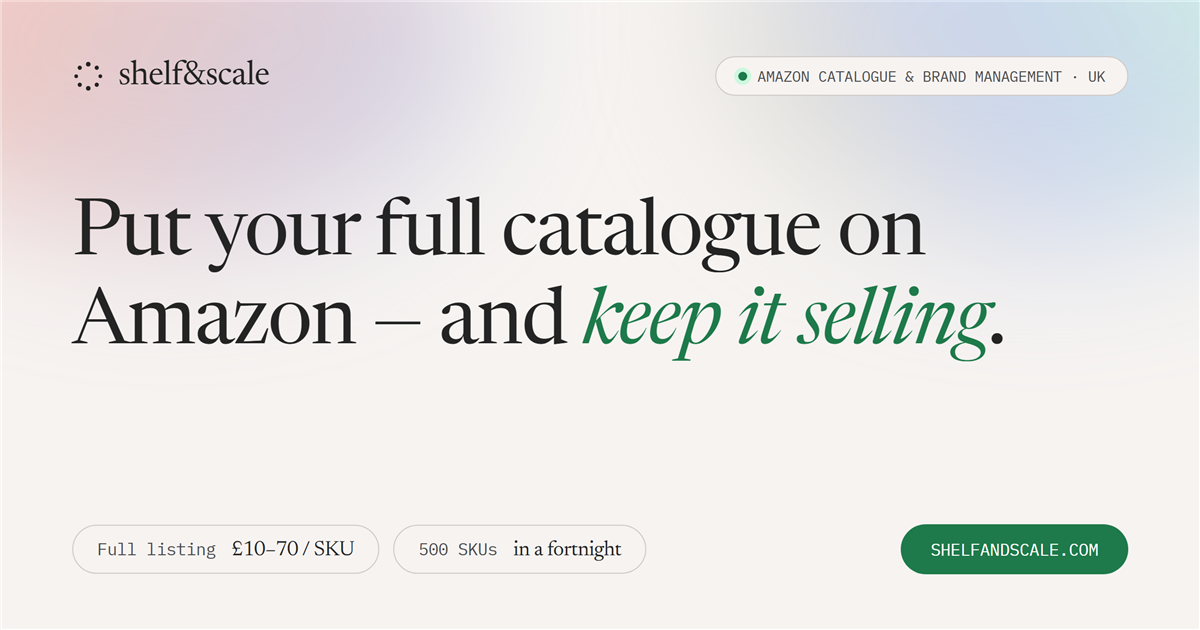
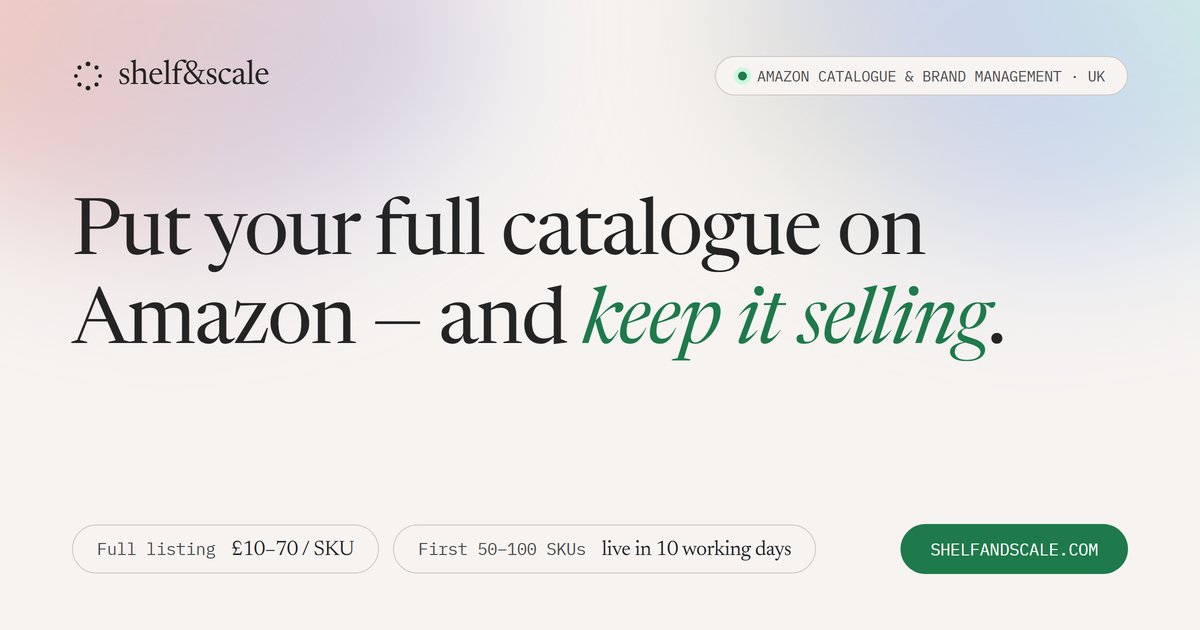
site: 25.08 decisions — first-wave timeline, Pilot Wave step, setup + Care price rows, no-discovery-call offer, privacy notice
Claude-Session: https://claude.ai/code/session_01PHY9f7moXur5pn1mTmrteM

diff --git a/index.html b/index.html
@@ -4,18 +4,18 @@
 <meta charset="UTF-8">
 <meta name="viewport" content="width=device-width, initial-scale=1.0">
 <title>Shelf &amp; Scale — Amazon Brand Management</title>
-<meta name="description" content="Put your full catalogue on Amazon and keep it selling. 500 SKUs live within a fortnight of sign-off — copy, images, filed product data — then storefront, A+ and advertising, run as one managed channel.">
+<meta name="description" content="Put your full catalogue on Amazon and keep it selling. Your first 50–100 SKUs live within 10 working days of clean data and sign-off — copy, images, filed product data — then storefront, A+ and advertising, run as one managed channel.">
 <meta property="og:type" content="website">
-<meta property="og:url" content="https://abc5550.github.io/shelfandscale-preview/">
+<meta property="og:url" content="https://shelfandscale.com/">
 <meta property="og:title" content="Shelf &amp; Scale — Amazon Catalogue &amp; Brand Management">
-<meta property="og:description" content="Put your full catalogue on Amazon and keep it selling. 500 SKUs live in a fortnight, at a published price — £10–70 per SKU.">
-<meta property="og:image" content="https://abc5550.github.io/shelfandscale-preview/og.png">
+<meta property="og:description" content="Put your full catalogue on Amazon and keep it selling. First 50–100 SKUs live in 10 working days, at a published price — £10–70 per SKU.">
+<meta property="og:image" content="https://shelfandscale.com/og.png">
 <meta property="og:image:width" content="1200">
 <meta property="og:image:height" content="630">
 <meta name="twitter:card" content="summary_large_image">
 <meta name="twitter:title" content="Shelf &amp; Scale — Amazon Catalogue &amp; Brand Management">
-<meta name="twitter:description" content="Put your full catalogue on Amazon and keep it selling. 500 SKUs live in a fortnight, at a published price.">
-<meta name="twitter:image" content="https://abc5550.github.io/shelfandscale-preview/og.png">
+<meta name="twitter:description" content="Put your full catalogue on Amazon and keep it selling. First 50–100 SKUs live in 10 working days, at a published price.">
+<meta name="twitter:image" content="https://shelfandscale.com/og.png">
 <link rel="preconnect" href="https://fonts.googleapis.com">
 <link rel="preconnect" href="https://fonts.gstatic.com" crossorigin>
 <link href="https://fonts.googleapis.com/css2?family=Newsreader:ital,opsz,wght@0,6..72,400;1,6..72,400&family=IBM+Plex+Mono:wght@400;500&display=swap" rel="stylesheet">
@@ -230,6 +230,7 @@
 
   /* ---------- Steps ---------- */
   .steps { display: grid; grid-template-columns: repeat(3, 1fr); border-top: 1px solid var(--ash); }
+  .steps-4 { grid-template-columns: repeat(4, 1fr); }
   .step { padding: 48px 32px 8px 32px; border-left: 1px solid var(--ash); }
   .step:first-child { border-left: none; padding-left: 0; }
   .step .n { font-size: 13px; color: var(--smoke); text-transform: uppercase; display: block; margin-bottom: 20px; }
@@ -292,7 +293,7 @@
     .ba-grid, .ladder { grid-template-columns: 1fr; }
     .rung { border-left: none; }
     .rung:nth-child(2) { border-top: 1px solid var(--ash); }
-    .steps { grid-template-columns: 1fr; }
+    .steps, .steps-4 { grid-template-columns: 1fr; }
     .step { border-left: none; padding-left: 0; border-top: 1px solid var(--ash); }
     .step:first-child { border-top: none; }
     .announce .close { right: 16px; }
@@ -346,7 +347,7 @@
 <!-- Announcement -->
 <div class="announce" id="announce">
   <div class="wrap">
-    <span>Reply within 48 hours — and 5 of your SKUs rebuilt free, hero image included</span>
+    <span>Reply within 48 hours — and 5 production-standard listing previews rebuilt free, hero image included. No discovery call required.</span>
     <a class="pill" href="#contact">Send your catalogue</a>
     <button class="close" aria-label="Close" onclick="document.getElementById('announce').style.display='none'">×</button>
   </div>
@@ -383,7 +384,7 @@
   <div class="wrap">
     <div class="hero-tag reveal"><i></i>Amazon catalogue &amp; brand management · United Kingdom</div>
     <h1 class="reveal">Put your full catalogue on Amazon —<br>and <em>keep it selling</em>.</h1>
-    <p class="reveal">500 SKUs live within a fortnight of sign-off: copy, images and filed product data — on your own account, so you keep everything. Then the storefront, A+ content and advertising, run as one managed channel.</p>
+    <p class="reveal">Your first 50–100 SKUs live within 10 working days of clean data and sign-off — copy, images and filed product data, on your own account, so you keep everything. The full catalogue follows in agreed waves; then the storefront, A+ content and advertising, run as one managed channel.</p>
     <div class="hero-qual reveal">For established brands and distributors with 100–1,000+ SKUs. Not built for single-product launches.</div>
     <div class="hero-cta reveal">
       <a class="btn btn-accent" href="#contact">Send your catalogue</a>
@@ -578,7 +579,7 @@
   <div class="wrap">
     <span class="kicker reveal">Beyond listings</span>
     <h2 class="section-title reveal">The listing is the door, not the room.</h2>
-    <p class="section-sub reveal">Most clients arrive with a catalogue problem and end up owning a managed brand channel. It is built in this order, because brand content, advertising and management only work when the pages underneath them are ready.</p>
+    <p class="section-sub reveal">Most clients arrive with a catalogue problem and end up owning a managed brand channel. It is built in this order, because brand content, advertising and management only work when the pages underneath them are ready.<br><br><b style="font-weight:500;color:var(--off-black)">Listings put the range live. Catalogue Care and Channel Growth keep it selling.</b></p>
     <div class="ladder reveal">
       <div class="rung entry">
         <div class="n">Stage 01 <span class="badge">The entry</span></div>
@@ -634,19 +635,22 @@
     <p class="section-sub reveal">Trade · GBP ex VAT · per SKU at one hundred SKUs and above · E&amp;OE</p>
 
     <div class="price-rows reveal">
+      <div class="price-row"><span class="code">SS-00</span><span class="name">Catalogue setup</span><span class="desc">One-off, fixed after the free sample: mapping your source data to Amazon's category schema and variation structure. One standard product type included; additional catalogue structures and legacy remediation quoted after the sample. Once the structure exists, every SKU using it stays at the published rate.</span><span class="cost">fixed after<br>the sample<small>one-off</small></span></div>
       <div class="price-row"><span class="code">SS-01</span><span class="name">Listing copy</span><span class="desc">Title, bullets, description, backend keywords, prohibited-claims audit.</span><span class="cost">£10–15<small>/ SKU</small></span></div>
       <div class="price-row"><span class="code">SS-02</span><span class="name">Listing copy + hero image</span><span class="desc">Everything above, plus the main image that decides whether anyone clicks.</span><span class="cost">£25–35<small>/ SKU</small></span></div>
       <div class="price-row"><span class="code">SS-03</span><span class="name">Full listing</span><span class="desc">Copy plus five to seven images: hero, infographics, how-to-use, lifestyle.</span><span class="cost">£50–70<small>/ SKU</small></span></div>
       <div class="price-row"><span class="code">SS-04</span><span class="name">A+ content</span><span class="desc">Added to a selected set of hero SKUs, not across the whole range.</span><span class="cost">£100–150<small>/ SKU</small></span></div>
       <div class="price-row"><span class="code">SS-05</span><span class="name">Channel retainer</span><span class="desc">Once the catalogue is live: listing maintenance, reporting, and advertising within an agreed ad-budget band. Scope fixed in writing before it starts.</span><span class="cost">from £1,500<small>/ month</small></span></div>
+      <div class="price-row"><span class="code">SS-06</span><span class="name">Catalogue Care</span><span class="desc">Keeping a live range live: suppressions cleared, new SKUs added, cases handled, content refreshed, monthly report. For catalogues that are built and need looking after, without the advertising.</span><span class="cost">priced after<br>the pilot<small>/ month</small></span></div>
     </div>
+    <p class="price-meta reveal" style="margin-top:16px;color:var(--off-black)">Estimated total = catalogue setup + SKU count × package price.</p>
     <p class="price-meta reveal">Where a price lands inside its range depends on source-data quality, category complexity and image requirements — and the quote is fixed before work starts. Smaller runs are quoted individually; larger catalogues are priced on volume. One round of revisions is included. Prices exclude VAT.</p>
 
     <!-- Calculator -->
     <div class="calc reveal">
       <div>
         <h3>Do the maths — live</h3>
-        <div class="hint">Drag the slider, pick a package. The number updates.</div>
+        <div class="hint">Drag the slider, pick a package. The number updates. Add catalogue setup, fixed after the sample.</div>
         <label class="lbl" for="skuRange">SKUs in the catalogue <output id="skuOut">200</output></label>
         <input type="range" id="skuRange" min="100" max="1000" step="10" value="200">
         <div class="pkg">
@@ -657,7 +661,7 @@
       </div>
       <div class="calc-out">
         <div class="sum"><span id="calcSum">£10,000–14,000</span><small>Total, ex VAT</small></div>
-        <div class="days" id="calcDays">≈ 10 working days to live after sign-off — at 500 SKUs a fortnight</div>
+        <div class="days" id="calcDays">First wave (50–100 SKUs): live within 10 working days of sign-off · then further waves of 50–100, schedule fixed after the first wave</div>
       </div>
     </div>
 
@@ -668,7 +672,7 @@
         <tbody>
           <tr><td class="opt">ChatGPT</td><td>—</td><td>Search-volume data, a filed flat-file, a resolved 5665, or seven images to spec.</td></tr>
           <tr><td class="opt">Offshore data entry</td><td>£2–4</td><td>Keyword data, images, and copy anyone would want on their brand.</td></tr>
-          <tr><td class="opt">Agencies</td><td>£40–250</td><td>A price that scales to 500 SKUs — or a timescale that does.</td></tr>
+          <tr><td class="opt">Agencies</td><td>£40–250</td><td>A price that scales to a full range — or a timescale that does.</td></tr>
           <tr class="us"><td class="opt">Shelf &amp; Scale</td><td>£10–70</td><td>Nothing on this list. Packages run from copy-only to full listings — filed and live on your account.</td></tr>
         </tbody>
       </table>
@@ -681,8 +685,8 @@
 <section style="padding-top:0">
   <div class="wrap">
     <span class="kicker reveal">How it works</span>
-    <h2 class="section-title reveal">Three steps, and the first two cost you nothing.</h2>
-    <div class="steps" style="margin-top:48px">
+    <h2 class="section-title reveal">Four steps, and the first two cost you nothing.</h2>
+    <div class="steps steps-4" style="margin-top:48px">
       <div class="step reveal">
         <span class="n">Step 1 · <b>£0.00</b></span>
         <h3>Send the catalogue</h3>
@@ -691,12 +695,17 @@
       <div class="step reveal">
         <span class="n">Step 2 · <b>£0.00</b></span>
         <h3>48 hours later: a fixed quote — and 5 of your SKUs rebuilt, free</h3>
-        <p>Scope and price in writing, plus five of your products rebuilt — copy, keywords and a hero image each — ready to file. You judge finished work, not a proposal.</p>
+        <p>Scope and price in writing, plus five of your products rebuilt as production-standard previews — copy, keywords and a hero image each, ready to file where your data is complete. You judge finished work, not a proposal. No discovery call required.</p>
       </div>
       <div class="step reveal">
-        <span class="n">Step 3 · <b>the quote, fixed</b></span>
-        <h3>We build and file</h3>
-        <p>You approve the sample, we produce the rest, upload to your account and clear the errors. Nothing goes live without your explicit sign-off — and every wave ships with 30 days of live numbers: sessions, conversion, keyword rank.</p>
+        <span class="n">Step 3 · <b>pilot wave · deposit</b></span>
+        <h3>25–50 SKUs from one product family</h3>
+        <p>The first paid wave: one product family, built, filed and live on your account within 10 working days of clean data and sign-off. One round of revisions. It counts toward the rollout, and it is where the schedule for the rest gets fixed — on real numbers, not a proposal.</p>
+      </div>
+      <div class="step reveal">
+        <span class="n">Step 4 · <b>the quote, fixed</b></span>
+        <h3>Rollout in waves — then the channel</h3>
+        <p>Waves of 50–100 SKUs, each signed off before the next starts. Nothing goes live without your explicit sign-off — and every wave ships with 30 days of live numbers: sessions, conversion, keyword rank. Then Catalogue Care keeps the range live, and Channel Growth keeps it selling.</p>
       </div>
     </div>
   </div>
@@ -723,7 +732,7 @@
       </details>
       <details>
         <summary>How long does a 500-SKU catalogue actually take?<span class="chev">↓</span></summary>
-        <div class="a">Around a fortnight — and the clock starts when your data template and assets are approved, not when the contract is signed. Large catalogues go live in waves, so the early batches are producing metrics while the later ones are still in production — and those metrics feed back into the build.</div>
+        <div class="a">Your first 50–100 SKUs are live within 10 working days of clean data and sign-off — and the clock starts when your data template and assets are approved, not when the contract is signed. The rest follows in agreed waves of 50–100, with the schedule fixed after the first wave, on what the data and the category actually required. Early waves are producing metrics while later ones are still in production — and those metrics feed back into the build.</div>
       </details>
       <details>
         <summary>Do you need access to our Seller Central?<span class="chev">↓</span></summary>
@@ -768,12 +777,12 @@
       <div class="wash-3"></div>
       <span class="kicker">Next step</span>
       <h2>Send us your catalogue. We will tell you what it costs.</h2>
-      <p>No call required to get a number. If the price does not work for you, you will have lost one email and learned what the market rate should be.</p>
+      <p>No discovery call required to receive the sample or the number. If the price does not work for you, you will have lost one email and learned what the market rate should be.</p>
       <div class="hero-cta">
         <a class="btn btn-accent" href="mailto:kevin@shelfandscale.com">kevin@shelfandscale.com</a>
         <a class="btn btn-ghost" href="#pricing">Back to the price list</a>
       </div>
-      <div class="fine">Reply in 48 hrs · 5-SKU sample free, hero images included · no Seller Central access needed for the sample<br>Recruiting for an Amazon manager at the moment? There is a version of this for the months before they start.</div>
+      <div class="fine">Reply in 48 hrs · 5 production-standard listing previews free, hero images included · no Seller Central access needed for the sample<br>Recruiting for an Amazon manager at the moment? There is a version of this for the months before they start.</div>
     </div>
   </div>
 </section>
@@ -804,6 +813,7 @@
       <div class="foot-h">Contact &amp; privacy</div>
       <a href="mailto:kevin@shelfandscale.com">kevin@shelfandscale.com</a>
       <p>No cookies. No tracking. If you email us, we keep the thread only to reply to you, share it with no one, and delete it on request.</p>
+      <a href="privacy.html">Privacy notice</a>
     </div>
   </div>
 </footer>
@@ -831,7 +841,8 @@
     const pkg = document.querySelector('input[name=pkg]:checked').value.split(',').map(x => parseInt(x, 10));
     skuOut.textContent = n;
     sum.textContent = '£' + (n * pkg[0]).toLocaleString('en-GB') + '–' + (n * pkg[1]).toLocaleString('en-GB');
-    days.textContent = '≈ ' + Math.max(10, Math.ceil(n / 50)) + ' working days to live after sign-off — at 500 SKUs a fortnight';
+    const waves = Math.max(0, Math.ceil(n / 100) - 1);
+    days.textContent = 'First wave (50–100 SKUs): live within 10 working days of sign-off' + (waves > 0 ? ' · then ' + waves + ' further wave' + (waves === 1 ? '' : 's') + ' of 50–100, schedule fixed after the first wave' : '');
   }
   range.addEventListener('input', recalc);
   document.querySelectorAll('input[name=pkg]').forEach(r => r.addEventListener('change', recalc));

diff --git a/privacy.html b/privacy.html
@@ -1,0 +1,170 @@
+<!DOCTYPE html>
+<html lang="en">
+<head>
+<meta charset="UTF-8">
+<meta name="viewport" content="width=device-width, initial-scale=1.0">
+<title>Privacy notice — Shelf &amp; Scale</title>
+<meta name="description" content="How Shelf &amp; Scale handles the business contact details it uses to write to brands, and what this website does and does not collect.">
+<meta name="robots" content="noindex">
+<link rel="preconnect" href="https://fonts.googleapis.com">
+<link rel="preconnect" href="https://fonts.gstatic.com" crossorigin>
+<link href="https://fonts.googleapis.com/css2?family=Newsreader:ital,opsz,wght@0,6..72,400;1,6..72,400&family=IBM+Plex+Mono:wght@400;500&display=swap" rel="stylesheet">
+<style>
+  :root {
+    --parchment: #f6f3f1;
+    --mint: #a7fccd;
+    --coral: #ff9473;
+    --off-black: #242424;
+    --graphite: #4e4d4d;
+    --smoke: #797776;
+    --ash: #cecac8;
+    --accent: #1e7a4a;
+    --accent-deep: #16603a;
+    --accent-text: #1d6f45;
+    --mono: 'IBM Plex Mono', ui-monospace, SFMono-Regular, Menlo, Consolas, monospace;
+    --serif: 'Newsreader', ui-serif, Georgia, 'Times New Roman', serif;
+    --page-max: 1432px;
+    --btn-radius: 100px;
+  }
+  * { margin: 0; padding: 0; box-sizing: border-box; }
+  body { background: var(--parchment); color: var(--off-black); font-family: var(--mono); font-size: 16px; line-height: 1.35; letter-spacing: -0.025em; -webkit-font-smoothing: antialiased; }
+  h1, h2, h3 { font-family: var(--serif); font-weight: 400; letter-spacing: -0.02em; line-height: 1.2; }
+  a { color: inherit; text-decoration: none; }
+  ::selection { background: var(--mint); }
+  :focus-visible { outline: 2px solid var(--accent); outline-offset: 3px; border-radius: 4px; }
+  .wrap { max-width: var(--page-max); margin: 0 auto; padding: 0 40px; }
+
+  nav { position: sticky; top: 0; z-index: 50; background: color-mix(in srgb, var(--parchment) 90%, transparent); backdrop-filter: blur(12px); }
+  nav .wrap { display: flex; align-items: center; justify-content: space-between; height: 80px; gap: 32px; }
+  .logo { display: inline-flex; align-items: center; gap: 10px; font-family: var(--serif); font-size: 24px; }
+  .logo svg { width: 26px; height: 26px; }
+  .nav-links { display: flex; gap: 28px; font-size: 14px; text-transform: uppercase; }
+  .nav-links a:hover { color: var(--smoke); }
+  .btn { display: inline-flex; align-items: center; gap: 10px; font-family: var(--mono); font-size: 13px; text-transform: uppercase; letter-spacing: -0.02em; border-radius: var(--btn-radius); padding: 10px 22px; border: 1px solid transparent; white-space: nowrap; transition: transform .2s, background .2s; }
+  .btn:hover { transform: translateY(-1px); }
+  .btn-accent { background: var(--accent); color: #fff; }
+  .btn-accent:hover { background: var(--accent-deep); }
+  .btn-accent::after { content: '▸'; font-size: 12px; }
+
+  main { padding: 72px 0 104px; }
+  .kicker { display: inline-block; font-size: 13px; text-transform: uppercase; color: var(--smoke); border: 1px solid var(--ash); border-radius: 9999px; padding: 7px 18px; margin-bottom: 28px; }
+  h1 { font-size: clamp(32px, 3.4vw, 48px); max-width: 820px; margin-bottom: 20px; }
+  .lede { color: var(--graphite); max-width: 680px; font-size: 16px; line-height: 1.6; margin-bottom: 56px; }
+  .doc { max-width: 780px; }
+  .doc h2 { font-size: 26px; margin: 48px 0 14px; padding-top: 24px; border-top: 1px solid var(--ash); }
+  .doc p, .doc li { color: var(--graphite); font-size: 15px; line-height: 1.65; }
+  .doc p + p { margin-top: 12px; }
+  .doc ul { list-style: none; margin-top: 12px; }
+  .doc li { padding: 6px 0 6px 26px; position: relative; }
+  .doc li::before { content: '—'; position: absolute; left: 0; color: var(--accent-text); }
+  .doc b { font-weight: 500; color: var(--off-black); }
+  .doc .ph { background: color-mix(in srgb, var(--coral) 28%, transparent); padding: 1px 5px; border-radius: 4px; color: var(--off-black); }
+  .doc a { color: var(--accent-text); border-bottom: 1px solid color-mix(in srgb, var(--accent-text) 40%, transparent); }
+  .meta { font-size: 13px; color: var(--smoke); margin-top: 56px; line-height: 1.7; }
+
+  footer { border-top: 1px solid var(--ash); padding: 56px 0 64px; }
+  footer .wrap { display: grid; grid-template-columns: 1.4fr 1fr 1fr; gap: 48px; }
+  .foot-meta { font-size: 13px; color: var(--smoke); line-height: 1.9; margin-top: 16px; }
+  .foot-h { font-size: 12px; text-transform: uppercase; color: var(--smoke); margin-bottom: 16px; }
+  .foot-col a { display: block; font-size: 14px; padding: 5px 0; }
+  .foot-col a:hover { color: var(--smoke); }
+  .foot-col p { font-size: 13px; color: var(--smoke); line-height: 1.7; margin-top: 10px; }
+
+  @media (max-width: 1100px) { footer .wrap { grid-template-columns: 1fr; gap: 32px; } }
+  @media (max-width: 820px) { .wrap { padding: 0 24px; } main { padding: 48px 0 72px; } .nav-links { display: none; } }
+  @media (max-width: 640px) { nav .wrap { height: 62px; gap: 12px; } .logo { font-size: 20px; } }
+</style>
+</head>
+<body>
+
+<nav>
+  <div class="wrap">
+    <a class="logo" href="index.html">
+      <svg viewBox="0 0 26 26" aria-hidden="true">
+        <g fill="#242424">
+          <circle cx="13" cy="3.2" r="1.9"/><circle cx="19.9" cy="6.1" r="1.7"/><circle cx="22.8" cy="13" r="1.5"/>
+          <circle cx="19.9" cy="19.9" r="1.7"/><circle cx="13" cy="22.8" r="1.9"/><circle cx="6.1" cy="19.9" r="1.7"/>
+          <circle cx="3.2" cy="13" r="1.5"/><circle cx="6.1" cy="6.1" r="1.7"/>
+        </g>
+      </svg>
+      shelf&amp;scale</a>
+    <div class="nav-links">
+      <a href="index.html#gap">The catalogue gap</a>
+      <a href="index.html#beyond">Beyond listings</a>
+      <a href="index.html#pricing">Prices</a>
+      <a href="index.html#faq">FAQ</a>
+    </div>
+    <div class="nav-actions">
+      <a class="btn btn-accent" href="index.html#contact">Send your catalogue</a>
+    </div>
+  </div>
+</nav>
+
+<main>
+  <div class="wrap">
+    <span class="kicker">Privacy notice</span>
+    <h1>What we hold about you, where it came from, and how to make us stop.</h1>
+    <p class="lede">This notice covers two things: the business contact details we use to write to brands about their Amazon catalogues, and what this website does. It is written to be read, not filed. Last updated <span class="ph">[DATE]</span>.</p>
+
+    <div class="doc">
+      <h2>Who we are</h2>
+      <p><b>Shelf &amp; Scale</b> is a trading name of <span class="ph">[COMPANY NAME]</span>, a company registered in England and Wales under number <span class="ph">[COMPANY NUMBER]</span>, registered office <span class="ph">[REGISTERED ADDRESS]</span>. We are the data controller for the information described here. Contact for anything in this notice: <a href="mailto:privacy@shelfandscale.com">privacy@shelfandscale.com</a>.</p>
+
+      <h2>Business contact details we use for outreach</h2>
+      <p>We write to people at brands and distributors whose product ranges we think we can help put on Amazon. To do that we hold a small amount of information about individuals in their working role:</p>
+      <ul>
+        <li>name and job title</li>
+        <li>work email address and, where published, a work phone number</li>
+        <li>the company you work for, its website and its public product range</li>
+        <li>whether you have replied to us, and what you asked us to do (for example, not to write again)</li>
+      </ul>
+      <p><b>Where it comes from.</b> Public sources only: your company's website, your public LinkedIn profile, Companies House records, and job advertisements your company has published. We do not buy lists and we do not scrape personal accounts.</p>
+      <p><b>Why we are allowed to.</b> Our lawful basis under UK GDPR is <b>legitimate interests</b>: introducing a business service that is relevant to your role, to a company that publicly sells products of the kind we work with. We have assessed this against your interests and rights and keep a record of that assessment. Where the law requires consent instead — for example, sole traders and some partnerships — we do not write without it.</p>
+      <p><b>How to make us stop.</b> Reply to any email with the word <b>unsubscribe</b>, or write to <a href="mailto:privacy@shelfandscale.com">privacy@shelfandscale.com</a>. We add you to a suppression list the same working day, and we keep that list so we do not contact you again by mistake.</p>
+      <p><b>How long we keep it.</b> If you do not reply, we delete your details <span class="ph">[12 months]</span> after our last message. If you reply, we keep the thread for as long as we are talking, and for <span class="ph">[12 months]</span> after it ends. Suppression-list entries are kept indefinitely, because that is the only way they work.</p>
+      <p><b>Who else sees it.</b> Nobody outside Shelf &amp; Scale, except the email and contact-management providers that carry our messages (<span class="ph">[PROVIDER NAMES]</span>), acting on our instructions. We do not sell or share contact details.</p>
+
+      <h2>This website</h2>
+      <p>No cookies. No analytics. No tracking pixels. Fonts are loaded from Google Fonts, which means your browser requests them from Google's servers; that is the only third-party request the page makes.</p>
+      <p>If you email us, we keep the thread only to reply to you, share it with no one, and delete it on request. If you send us a catalogue or product data for a sample, we use it to build that sample and for nothing else, and we delete it if you ask.</p>
+
+      <h2>Your rights</h2>
+      <p>Under UK GDPR you can ask us for a copy of what we hold about you, ask us to correct or delete it, and object to our using it. Write to <a href="mailto:privacy@shelfandscale.com">privacy@shelfandscale.com</a>; we answer within one month. If you are not satisfied with our answer you can complain to the Information Commissioner's Office at <a href="https://ico.org.uk/make-a-complaint/" rel="noopener">ico.org.uk</a>.</p>
+
+      <p class="meta">This notice applies to Shelf &amp; Scale's outreach and to shelfandscale.com. It will be updated when our practices change, with the date above. Text in <span class="ph">highlighted brackets</span> is to be completed before publication.</p>
+    </div>
+  </div>
+</main>
+
+<footer>
+  <div class="wrap">
+    <div>
+      <a class="logo" href="index.html" style="font-size:21px">
+        <svg viewBox="0 0 26 26" aria-hidden="true" style="width:22px;height:22px">
+          <g fill="#242424">
+            <circle cx="13" cy="3.2" r="1.9"/><circle cx="19.9" cy="6.1" r="1.7"/><circle cx="22.8" cy="13" r="1.5"/>
+            <circle cx="19.9" cy="19.9" r="1.7"/><circle cx="13" cy="22.8" r="1.9"/><circle cx="6.1" cy="19.9" r="1.7"/>
+            <circle cx="3.2" cy="13" r="1.5"/><circle cx="6.1" cy="6.1" r="1.7"/>
+          </g>
+        </svg>
+        shelf&amp;scale</a>
+      <div class="foot-meta">Amazon catalogue &amp; brand management.<br>Whole ranges written, imaged, filed and live — then run as a channel, at a published price.<br>United Kingdom</div>
+    </div>
+    <div class="foot-col">
+      <div class="foot-h">Menu</div>
+      <a href="index.html#gap">The catalogue gap</a>
+      <a href="index.html#beyond">Beyond listings</a>
+      <a href="index.html#pricing">Prices</a>
+      <a href="index.html#faq">Fair questions</a>
+    </div>
+    <div class="foot-col">
+      <div class="foot-h">Contact &amp; privacy</div>
+      <a href="mailto:kevin@shelfandscale.com">kevin@shelfandscale.com</a>
+      <a href="mailto:privacy@shelfandscale.com">privacy@shelfandscale.com</a>
+      <p>No cookies. No tracking.</p>
+    </div>
+  </div>
+</footer>
+
+</body>
+</html>
